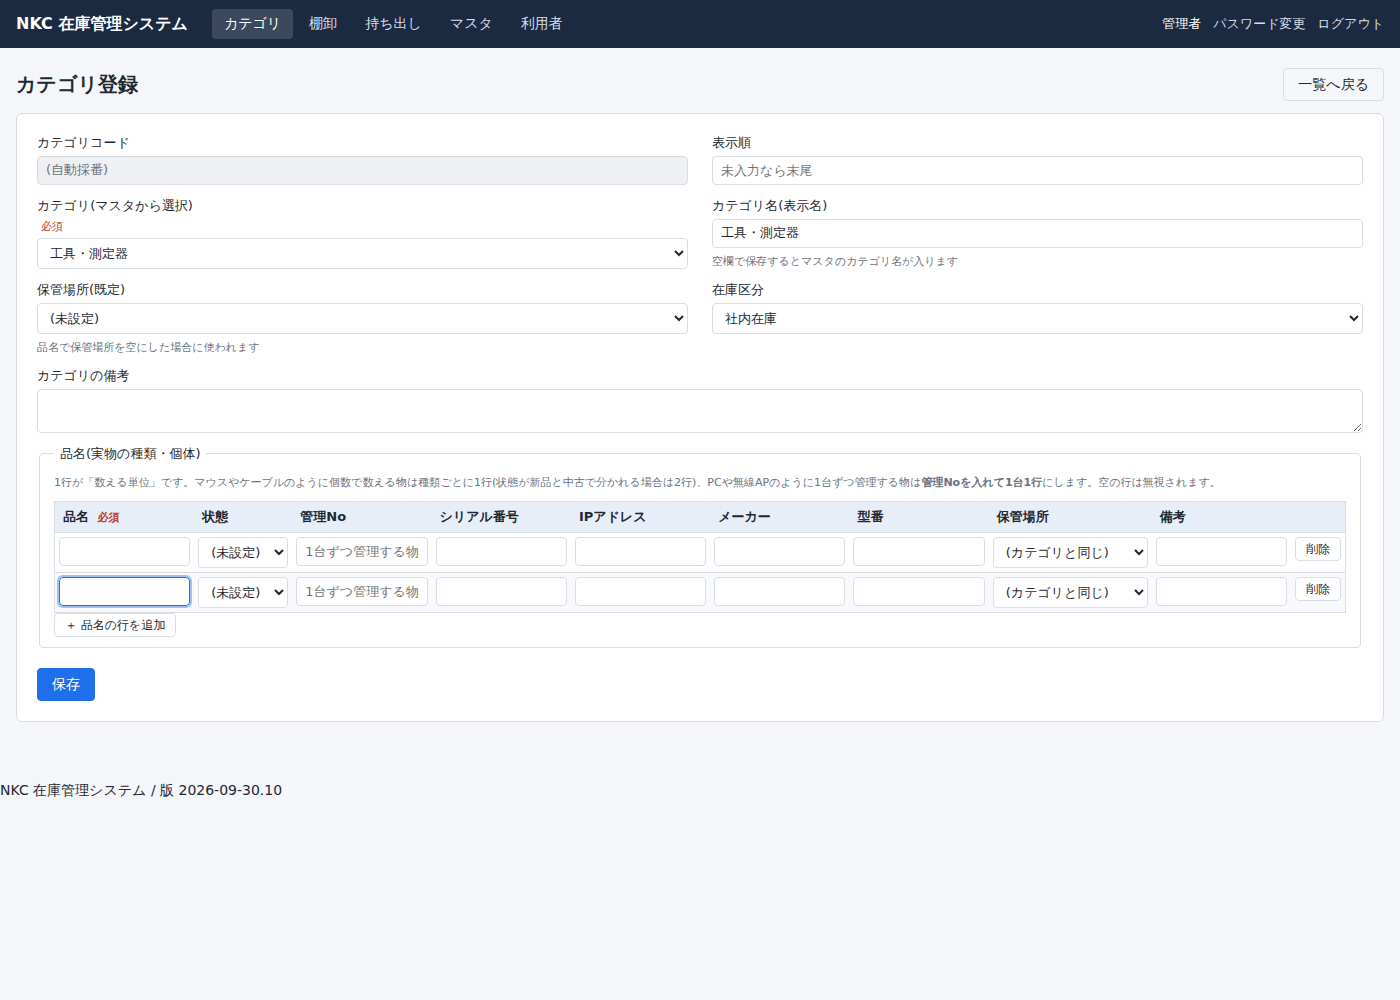
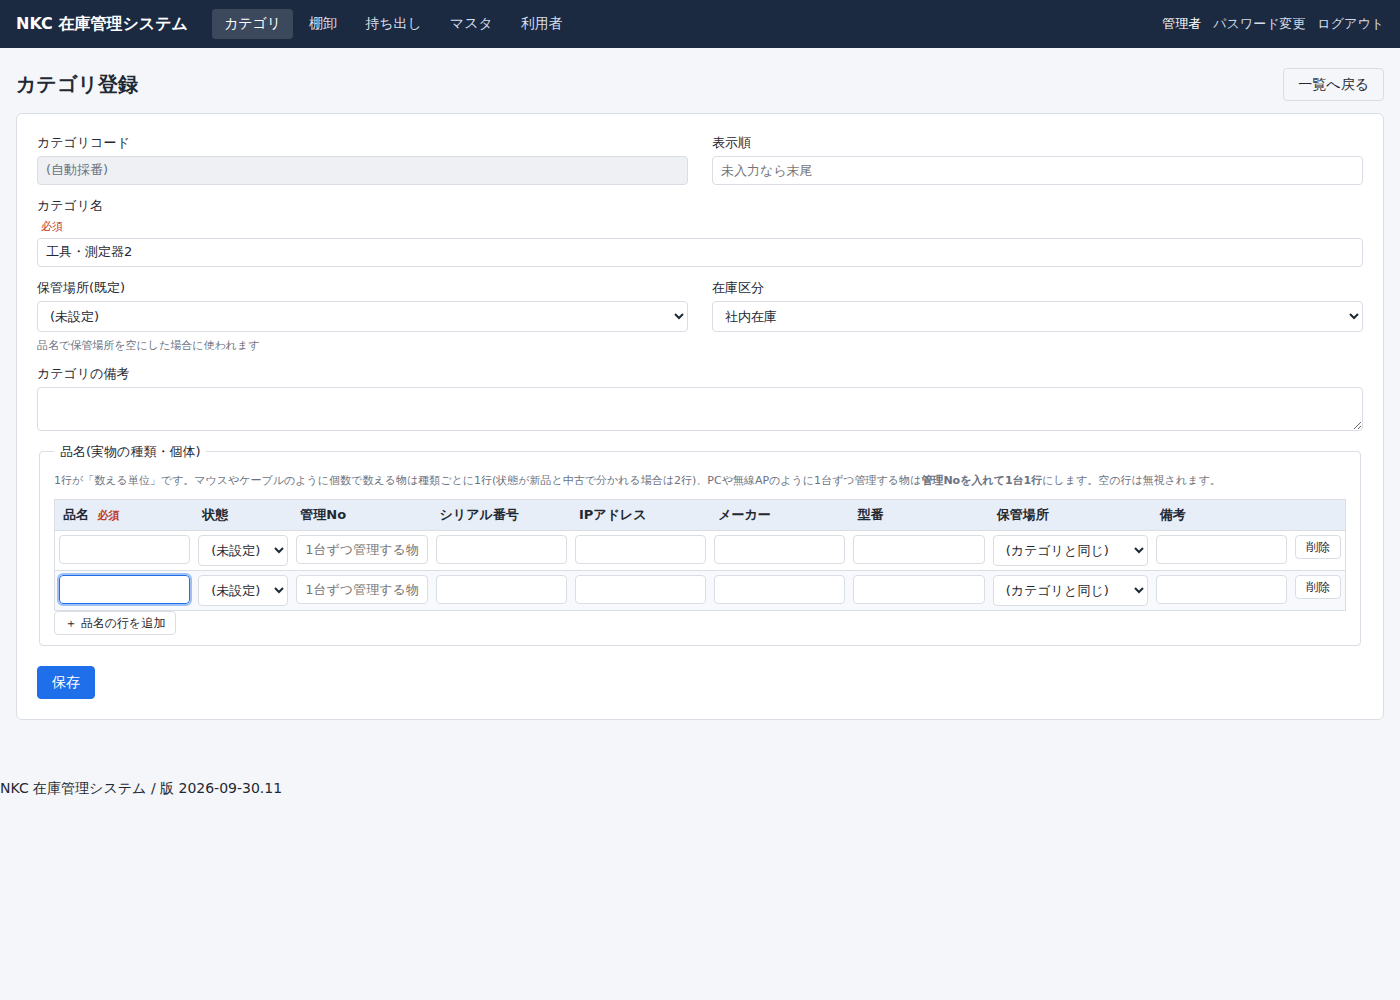
マスタ管理からカテゴリを削除し、カテゴリ登録画面でカテゴリ名を直接入力する形に
- categories テーブルはカテゴリ名で自動同期(画面からは扱わない)
- 同名カテゴリの重複チェックを追加。マスタの使用数は品名側の参照も集計
- 版 2026-09-30.11

Claude-Session: https://claude.ai/code/session_01Ri3r8gT3MYmawSEEk5gsQq

diff --git a/webapp/app/controllers/items.php b/webapp/app/controllers/items.php
@@ -122,6 +122,17 @@ if ($page === 'item' && ($action === 'new' || $action === 'edit')) {
     render('items/form', ['title' => $action === 'edit' ? 'カテゴリ編集' : 'カテゴリ登録', 'item' => $item, 'units' => $units, 'errors' => []] + item_masters());
 }
 
+/** カテゴリ名に対応する categories の ID(無ければ作成) */
+function category_id_for_name(string $name): int
+{
+    $id = db_val('SELECT id FROM categories WHERE name = ?', [$name]);
+    if ($id) {
+        return (int)$id;
+    }
+    $sort = (int)db_val('SELECT COALESCE(MAX(sort_order),0) FROM categories') + 1;
+    return db_insert('INSERT INTO categories (name, sort_order, is_active) VALUES (?, ?, 1)', [$name, $sort]);
+}
+
 /** フォームの品名行を正規化して返す(空行は除外)。エラーがあれば $errors に追加 */
 function item_units_from_post(array &$errors): array
 {
@@ -197,20 +208,16 @@ if ($page === 'item' && $action === 'save' && $_SERVER['REQUEST_METHOD'] === 'PO
     $existing = $id ? item_load($id) : null;
     $v = [
         'item_name'   => input_str('item_name', null, 200),
-        'category_id' => input_int('category_id'),
         'stock_type'  => input_str('stock_type', null, 20),
         'location_id' => input_int('location_id'),
         'notes'       => input_str('notes', null, 5000),
         'sort_order'  => input_int('sort_order'),
     ];
     $errors = [];
-    if ($v['category_id'] === null) {
-        $errors[] = 'カテゴリは必須です。';
-    } elseif (!db_val('SELECT 1 FROM categories WHERE id = ?', [$v['category_id']])) {
-        $errors[] = '選択したカテゴリが存在しません。';
-    }
-    if ($v['item_name'] === null && $v['category_id'] !== null) {
-        $v['item_name'] = db_val('SELECT name FROM categories WHERE id = ?', [$v['category_id']]);   // カテゴリ名はマスタのカテゴリ名を既定にする
+    if ($v['item_name'] === null) {
+        $errors[] = 'カテゴリ名は必須です。';
+    } elseif (db_val('SELECT id FROM inventory_items WHERE item_name = ?' . ($id ? ' AND id <> ?' : ''), $id ? [$v['item_name'], $id] : [$v['item_name']])) {
+        $errors[] = '同じ名前のカテゴリがすでに登録されています。';
     }
     if (!isset(stock_type_options()[$v['stock_type']])) {
         $errors[] = '在庫区分が不正です。';
@@ -218,6 +225,8 @@ if ($page === 'item' && $action === 'save' && $_SERVER['REQUEST_METHOD'] === 'PO
     if ($v['location_id'] !== null && !db_val('SELECT 1 FROM locations WHERE id = ?', [$v['location_id']])) {
         $errors[] = '保管場所が存在しません。';
     }
+    // categories テーブルはカテゴリ名で自動同期する(画面からは扱わない)
+    $v['category_id'] = $errors ? null : category_id_for_name($v['item_name']);
     $unitRows = item_units_from_post($errors);
     if ($errors) {
         $item = array_merge($existing ?? ['id' => null, 'item_code' => '(自動採番)', 'is_active' => 1], $v, ['id' => $id]);

diff --git a/webapp/app/views/items/form.php b/webapp/app/views/items/form.php
@@ -7,8 +7,7 @@
   <input type="hidden" name="id" value="<?= h($item['id']) ?>">
   <label>カテゴリコード<input type="text" value="<?= h($item['item_code']) ?>" disabled></label>
   <label>表示順<input type="number" name="sort_order" value="<?= h($item['sort_order']) ?>" placeholder="未入力なら末尾"></label>
-  <label>カテゴリ(マスタから選択) <span class="req">必須</span><select name="category_id" id="category-select" required><option value="">選択してください</option><?php foreach ($categories as $c): ?><option value="<?= h($c['id']) ?>" <?= $item['category_id'] == $c['id'] ? 'selected' : '' ?>><?= h($c['name']) ?></option><?php endforeach; ?></select></label>
-  <label>カテゴリ名(表示名)<input type="text" name="item_name" id="item-name" value="<?= h($item['item_name']) ?>" maxlength="200" placeholder="空欄ならマスタのカテゴリ名"><small class="hint">空欄で保存するとマスタのカテゴリ名が入ります</small></label>
+  <label class="span2">カテゴリ名 <span class="req">必須</span><input type="text" name="item_name" id="item-name" value="<?= h($item['item_name']) ?>" maxlength="200" required placeholder="例: 電源関連"></label>
   <label>保管場所(既定)<select name="location_id"><option value="">(未設定)</option><?php foreach ($locations as $l): ?><option value="<?= h($l['id']) ?>" <?= $item['location_id'] == $l['id'] ? 'selected' : '' ?>><?= h($l['name']) ?></option><?php endforeach; ?></select><small class="hint">品名で保管場所を空にした場合に使われます</small></label>
   <label>在庫区分<select name="stock_type"><?php foreach (stock_type_options() as $k => $v): ?><option value="<?= h($k) ?>" <?= $item['stock_type'] === $k ? 'selected' : '' ?>><?= h($v) ?></option><?php endforeach; ?></select></label>
   <label class="span2">カテゴリの備考<textarea name="notes" rows="2"><?= h($item['notes']) ?></textarea></label>

diff --git a/webapp/app/controllers/masters.php b/webapp/app/controllers/masters.php
@@ -4,7 +4,6 @@ require_perm('master.manage');
 
 $types = [
     'locations'  => ['label' => '保管場所', 'table' => 'locations',  'key' => 'id',   'has_sort' => true],
-    'categories' => ['label' => 'カテゴリ', 'table' => 'categories', 'key' => 'id',   'has_sort' => true],
     'customers'  => ['label' => '客先',     'table' => 'customers',  'key' => 'id',   'has_sort' => false],
     'conditions' => ['label' => '状態',     'table' => 'conditions', 'key' => 'code', 'has_sort' => true],
 ];
@@ -69,8 +68,12 @@ $order = $def['has_sort'] ? 'sort_order, ' . $def['key'] : 'name';
 $rows = db_all("SELECT * FROM $tbl ORDER BY $order");
 // 使用件数(カテゴリでの参照数)
 $usage = [];
-$refCol = ['locations' => 'location_id', 'categories' => 'category_id', 'customers' => 'customer_id', 'conditions' => 'condition_code'][$type];
-foreach (db_all("SELECT $refCol AS k, COUNT(*) AS c FROM inventory_items WHERE $refCol IS NOT NULL GROUP BY $refCol") as $r) {
+$refCol = ['locations' => 'location_id', 'customers' => 'customer_id', 'conditions' => 'condition_code'][$type];
+$usageSql = $type === 'locations'
+    ? "SELECT k, SUM(c) AS c FROM (SELECT location_id AS k, COUNT(*) AS c FROM inventory_items WHERE location_id IS NOT NULL GROUP BY location_id
+                                  UNION ALL SELECT location_id, COUNT(*) FROM inventory_units WHERE location_id IS NOT NULL GROUP BY location_id) x GROUP BY k"
+    : "SELECT $refCol AS k, COUNT(*) AS c FROM inventory_units WHERE $refCol IS NOT NULL GROUP BY $refCol";
+foreach (db_all($usageSql) as $r) {
     $usage[(string)$r['k']] = (int)$r['c'];
 }
 render('masters/list', ['title' => 'マスタ管理', 'types' => $types, 'type' => $type, 'def' => $def, 'rows' => $rows, 'usage' => $usage]);

diff --git a/webapp/app/views/items/list.php b/webapp/app/views/items/list.php
@@ -20,7 +20,7 @@
   <tbody>
   <?php foreach ($items as $i): $iid = (int)$i['id']; $s = stock_for($stock, $iid); $units = $unitsByItem[$iid] ?? []; ?>
     <tr class="item-head <?= (int)$i['is_active'] ? '' : 'row-inactive' ?>" data-item="<?= $iid ?>">
-      <td colspan="4" data-label="カテゴリ"><a href="<?= h(url('item', ['id' => $iid])) ?>" class="item-link"><strong><?= h($i['item_name']) ?></strong></a> <small class="muted"><?= h($i['item_code']) ?> ／ 品名 <?= count($units) ?> 件</small><?= (int)$i['is_active'] ? '' : ' <span class="badge badge-off">無効</span>' ?><?= $i['category_name'] !== null && $i['category_name'] !== $i['item_name'] ? ' <small class="muted">(カテゴリ: ' . h($i['category_name']) . ')</small>' : '' ?></td>
+      <td colspan="4" data-label="カテゴリ"><a href="<?= h(url('item', ['id' => $iid])) ?>" class="item-link"><strong><?= h($i['item_name']) ?></strong></a> <small class="muted"><?= h($i['item_code']) ?> ／ 品名 <?= count($units) ?> 件</small><?= (int)$i['is_active'] ? '' : ' <span class="badge badge-off">無効</span>' ?></td>
       <td data-label="保管場所(既定)"><?= h($i['location_name']) ?></td>
       <td class="num" data-label="棚卸数(合計)"><?= $s['latest_qty'] === null ? '<span class="muted">–</span>' : h($s['latest_qty']) ?></td>
       <td class="num" data-label="現在庫(合計)"><?= $s['current'] === null ? '<span class="muted">–</span>' : '<strong>' . h($s['current']) . '</strong>' ?></td>

diff --git a/webapp/app/views/masters/list.php b/webapp/app/views/masters/list.php
@@ -17,7 +17,7 @@
 <section>
   <h2><?= h($def['label']) ?>一覧</h2>
   <div class="table-wrap"><table class="table">
-    <thead><tr><th><?= $type === 'conditions' ? 'コード' : 'ID' ?></th><th>名称</th><?php if ($def['has_sort']): ?><th class="num">表示順</th><?php endif; ?><th>有効</th><th class="num">カテゴリでの使用数</th><th></th></tr></thead>
+    <thead><tr><th><?= $type === 'conditions' ? 'コード' : 'ID' ?></th><th>名称</th><?php if ($def['has_sort']): ?><th class="num">表示順</th><?php endif; ?><th>有効</th><th class="num">使用数(品名・カテゴリ)</th><th></th></tr></thead>
     <tbody>
     <?php foreach ($rows as $r): $k = (string)$r[$def['key']]; ?>
       <tr class="<?= (int)$r['is_active'] ? '' : 'row-inactive' ?>">
@@ -34,5 +34,5 @@
     <?php endforeach; ?>
     </tbody>
   </table></div>
-  <p class="muted">名称の変更は、その値を使っている全カテゴリに反映されます。使わなくなった値は削除せず「無効」にしてください(選択肢に出なくなります)。</p>
+  <p class="muted">名称の変更は、その値を使っている全ての品名・カテゴリに反映されます。使わなくなった値は削除せず「無効」にしてください(選択肢に出なくなります)。</p>
 </section>

diff --git a/webapp/app/lib/permissions.php b/webapp/app/lib/permissions.php
@@ -7,7 +7,7 @@ function permission_definitions(): array
     return [
         'count.confirm'   => '棚卸の確定・確定解除',
         'item.deactivate' => 'カテゴリ・個体の無効化・再有効化',
-        'master.manage'   => 'マスタ管理(保管場所・カテゴリ・客先・状態)',
+        'master.manage'   => 'マスタ管理(保管場所・客先・状態)',
         'user.manage'     => '利用者管理(利用者の追加・権限設定・パスワード再設定)',
     ];
 }

diff --git a/webapp/app/bootstrap.php b/webapp/app/bootstrap.php
@@ -15,7 +15,7 @@ if (is_file(APP_DIR . '/config.local.php')) {
     }
 }
 define('APP_NAME', $config['app']['name']);
-define('APP_VERSION', '2026-09-30.10');   // 画面下部に表示。アップロード漏れの確認用(更新のたびに上げる)
+define('APP_VERSION', '2026-09-30.11');   // 画面下部に表示。アップロード漏れの確認用(更新のたびに上げる)
 date_default_timezone_set($config['app']['timezone']);
 
 require APP_DIR . '/lib/db.php';

diff --git a/webapp/app/views/items/detail.php b/webapp/app/views/items/detail.php
@@ -19,7 +19,6 @@
 
 <div class="detail-grid">
   <dl>
-    <dt>カテゴリ</dt><dd><?= h($lookup['category']) ?: '<span class="muted">(未設定)</span>' ?></dd>
     <dt>保管場所(既定)</dt><dd><?= h($lookup['location']) ?: '<span class="muted">(未設定)</span>' ?></dd>
     <dt>在庫区分</dt><dd><?= h(stock_type_label($item['stock_type'])) ?></dd>
   </dl>

diff --git a/docs/07_XServer導入手順.md b/docs/07_XServer導入手順.md
@@ -91,6 +91,7 @@ return [
 | 更新日 | 内容 | 実行するSQL(すでに 001 を実行済みの環境) |
 |---|---|---|
 | 2026-09-18 | 持ち出し・戻し機能、現在庫表示、スマホ対応 | `sql/004_add_checkouts.sql` |
+| 2026-09-30 (版 .11) | マスタ管理からカテゴリを削除(カテゴリ登録画面で名前を直接入力) | なし |
 | 2026-09-30 (版 .10) | 名称を「品目→カテゴリ」「内訳→品名」に統一。品名の編集画面でカテゴリを変更(移動)できるように | なし |
 | 2026-09-28 (版 .9) | 棚卸: 行ごとの確定を廃止し「棚卸を締める」で一括登録+確定、途中保存ボタン(上下)、担当/日時列削除、項目名を左揃え。品目詳細の「一覧へ」と持ち出し登録カードを削除、絞り込みボタンを色付け | なし |
 | 2026-09-28 (版 .8) | 品目一覧で内訳(品名)を常に表示、開閉ボタン廃止 | なし |
